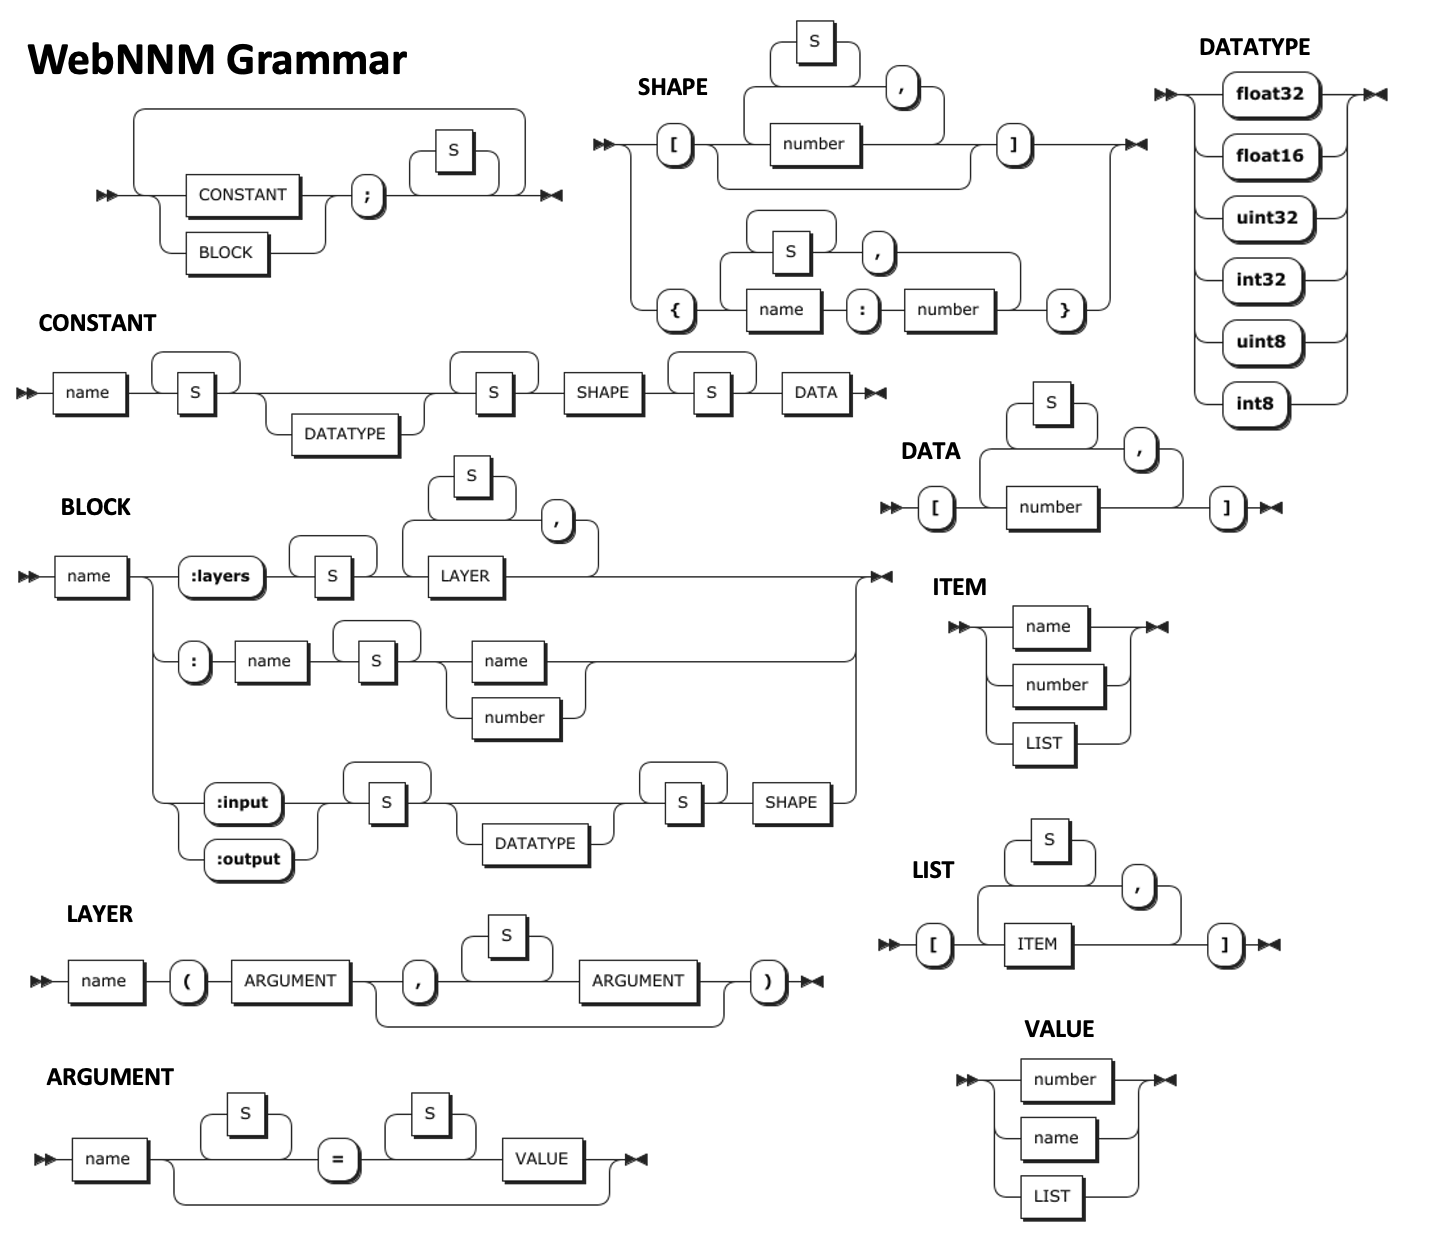
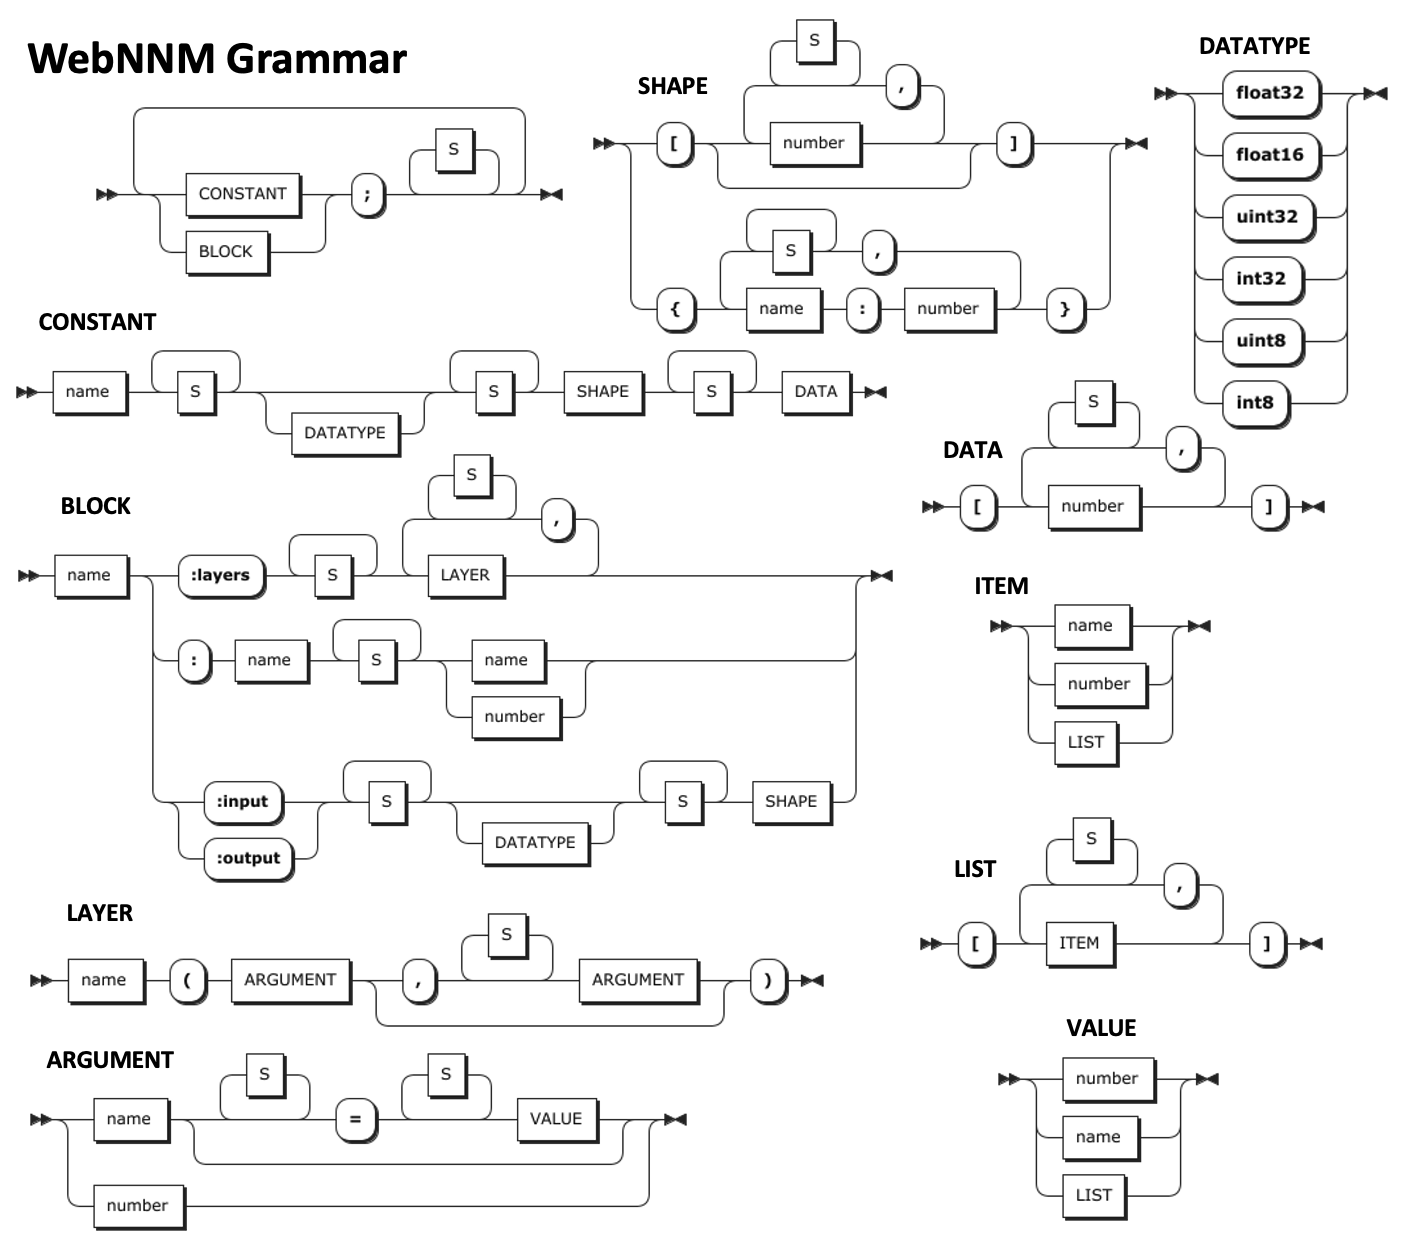
fix to layer grammar

diff --git a/WebNNM/index.html b/WebNNM/index.html
@@ -1054,7 +1054,7 @@ Grammar   ::= ( ( CONSTANT | BLOCK ) ";" S* )+
 
 CONSTANT  ::= name S+ datatype? S+ SHAPE S+ DATA
 
-SHAPE     ::= ( "[" number ( "," number )* "]" ) 
+SHAPE     ::= ( "[" (number ( "," number )*)? "]" ) 
             | ( "{" name ":" number ( "," S+ name ":" number )* "}" )
 
 BLOCK     ::= ( name ":name" S+ name ) 
@@ -1068,7 +1068,8 @@ BLOCK     ::= ( name ":name" S+ name )
 
 LAYER     ::= name "(" ARGUMENT ( "," S* ARGUMENT )? ")"
 
-ARGUMENT  ::= name 
+ARGUMENT  ::= name
+            | number
             | ( name S* "=" S* VALUE )
 
 VALUE     ::= name 
@@ -1104,7 +1105,7 @@ whitespace      ::= [#x09#x0A#x0D#x20]+ /* Tab, LF, CR, Space */
 comment         ::= "#" [^#x0A#x0D]* /* '#' followed by anything except newlines */
       </pre>
       
-      <p>Here is an informative version as a railroad diagram:<br>
+      <p>Here is an informative version as a railroad diagram, where "S" denotes whitespace:<br>
       <img class="railroad" src="webnnm-rr-grammar.png" alt="grammar-diagram"></p>
       
     </section>
